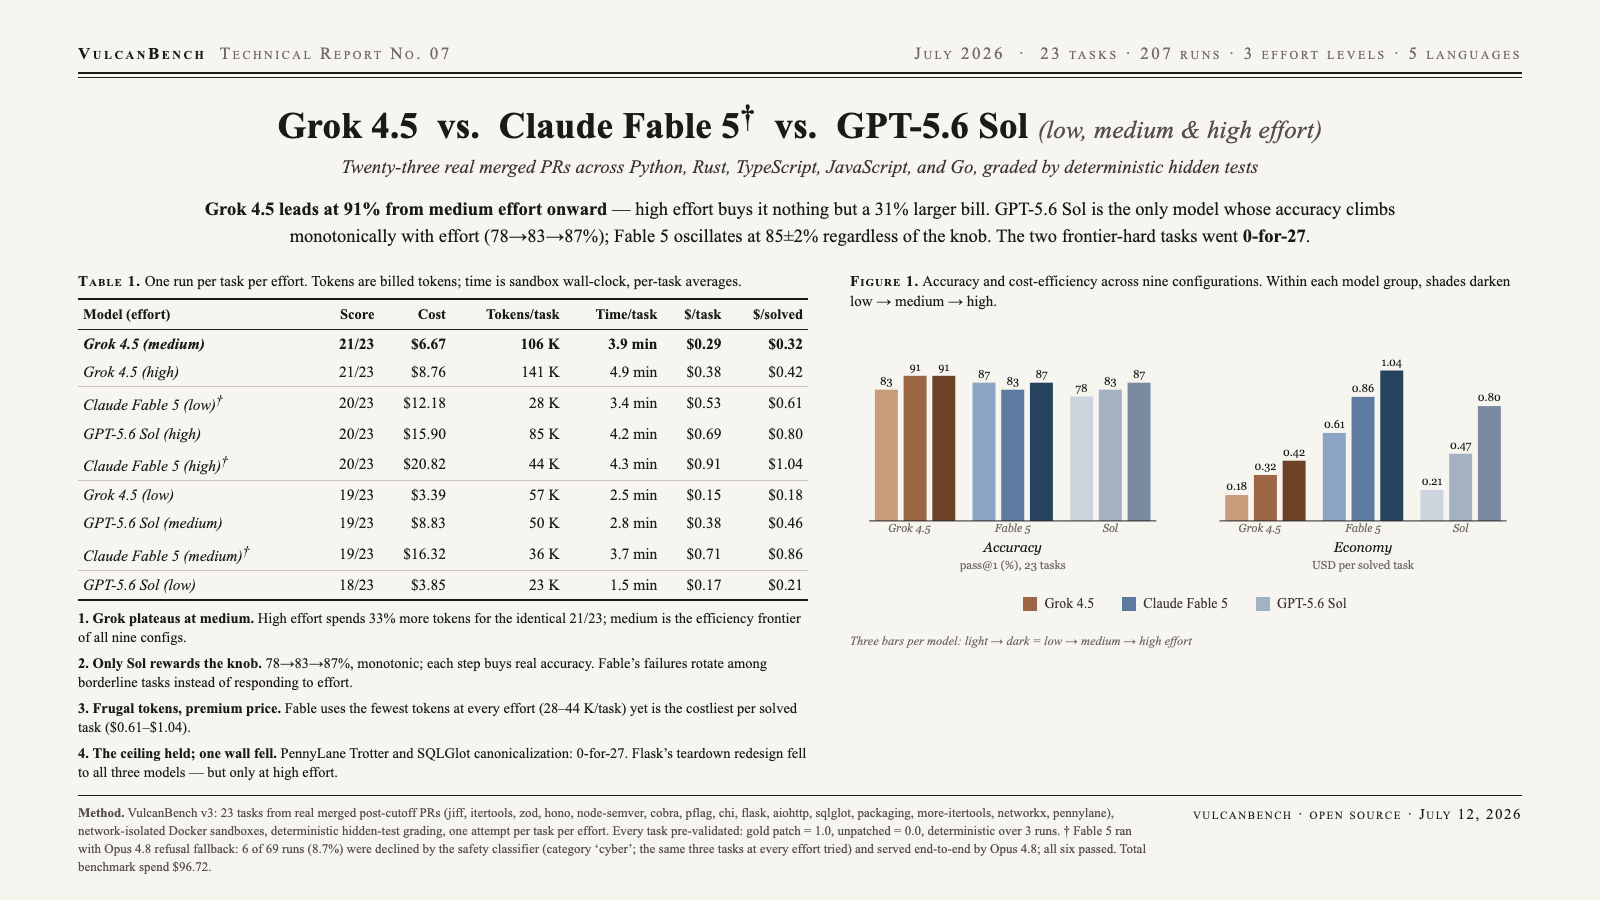
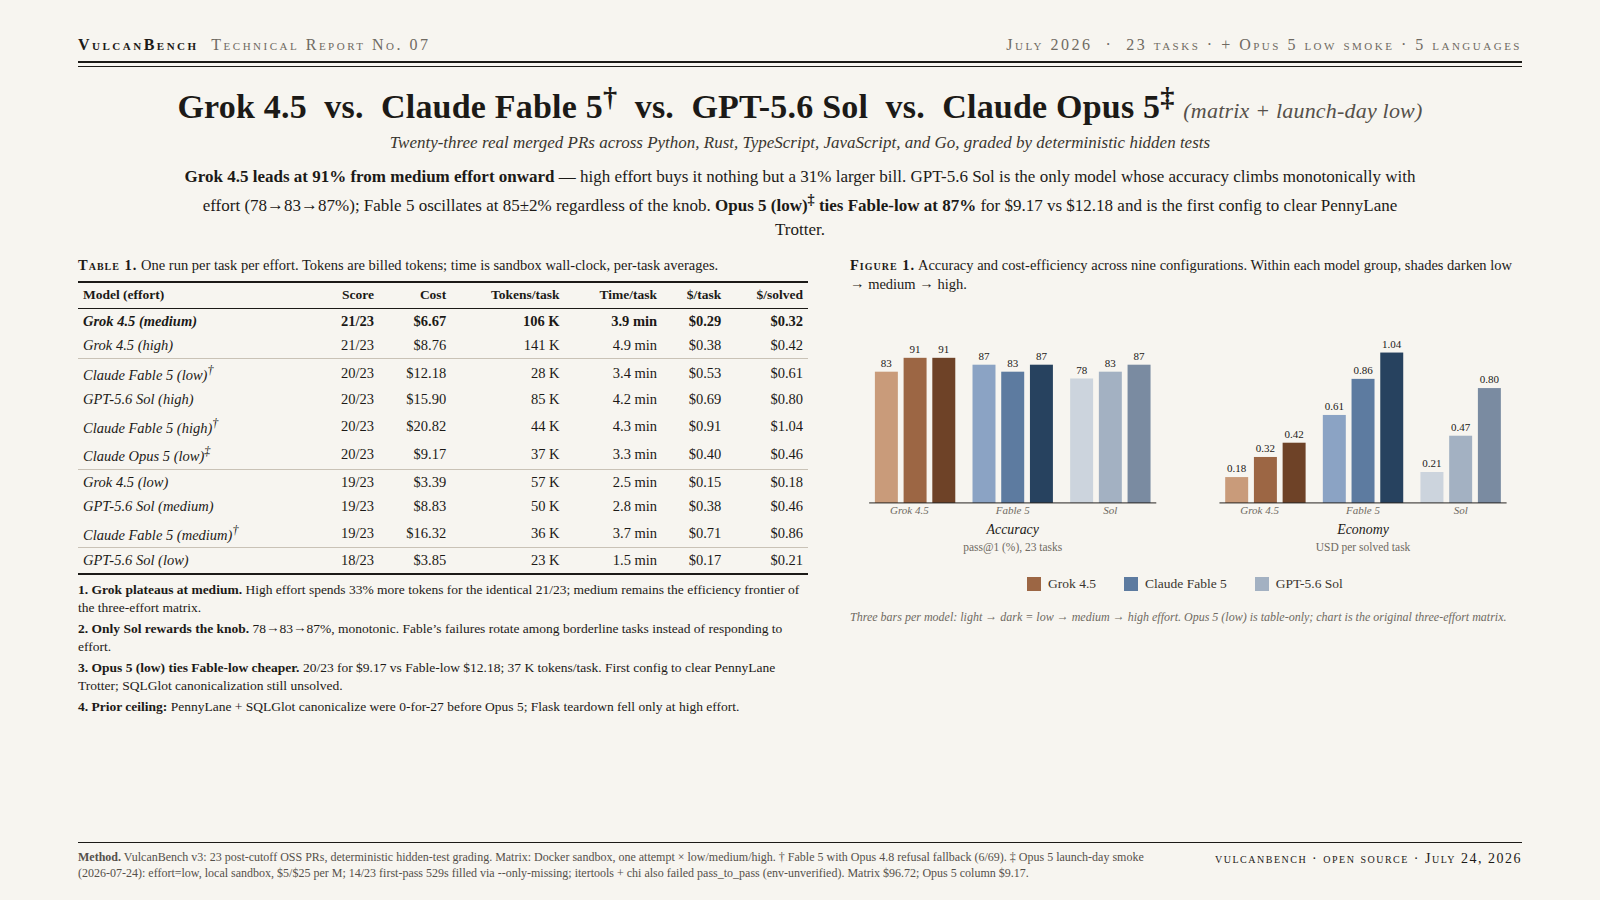
docs: regenerate v3 model-card PNG with Opus 5
Render the updated card.html to vulcanbench-v3-3way-card.png (1600x900)
and tighten layout so the extra Opus 5 row still fits the frame.

diff --git a/docs/results/v3-3way-2026-07/card.html b/docs/results/v3-3way-2026-07/card.html
@@ -3,41 +3,41 @@
 * { box-sizing: border-box; margin: 0; padding: 0; }
 html, body { width: 1600px; height: 900px; }
 body { font-family: "Times New Roman", Times, Georgia, serif; background: #f7f5f0; color: #1c1a17; }
-.page { width: 1600px; height: 900px; padding: 44px 78px 30px; position: relative; }
+.page { width: 1600px; height: 900px; padding: 36px 78px 26px; position: relative; }
 .masthead { display: flex; justify-content: space-between; align-items: baseline;
-  font-variant: small-caps; letter-spacing: 2.5px; font-size: 17px; color: #6f6a62; }
+  font-variant: small-caps; letter-spacing: 2.5px; font-size: 16px; color: #6f6a62; }
 .masthead b { color: #1c1a17; font-weight: 600; }
-.rule2 { border-top: 2.5px solid #1c1a17; margin-top: 8px; }
+.rule2 { border-top: 2.5px solid #1c1a17; margin-top: 7px; }
 .rule1 { border-top: 1px solid #1c1a17; margin-top: 2.5px; }
-h1 { text-align: center; font-size: 37px; font-weight: 600; margin-top: 20px; letter-spacing: 0.2px; }
-.eff { font-size: 25px; font-weight: 400; font-style: italic; color: #55504a; }
-.authors { text-align: center; font-style: italic; font-size: 19px; margin-top: 9px; color: #3a362f; }
-.abstract { width: 1240px; margin: 18px auto 0; font-size: 18.5px; line-height: 1.48; text-align: center; }
-.cols { display: grid; grid-template-columns: 730px 670px; gap: 42px; margin-top: 20px; }
-.tcap, .fcap { font-size: 15px; margin-bottom: 7px; line-height: 1.35; }
+h1 { text-align: center; font-size: 34px; font-weight: 600; margin-top: 14px; letter-spacing: 0.2px; }
+.eff { font-size: 22px; font-weight: 400; font-style: italic; color: #55504a; }
+.authors { text-align: center; font-style: italic; font-size: 17px; margin-top: 7px; color: #3a362f; }
+.abstract { width: 1240px; margin: 12px auto 0; font-size: 17px; line-height: 1.42; text-align: center; }
+.cols { display: grid; grid-template-columns: 730px 670px; gap: 42px; margin-top: 14px; }
+.tcap, .fcap { font-size: 14.5px; margin-bottom: 6px; line-height: 1.3; }
 .tcap b, .fcap b { font-variant: small-caps; letter-spacing: 1px; font-weight: 600; }
-table { width: 100%; border-collapse: collapse; font-size: 15.5px; }
+table { width: 100%; border-collapse: collapse; font-size: 14.5px; }
 thead th { border-top: 2px solid #1c1a17; border-bottom: 1px solid #1c1a17;
-  padding: 6px 5px; font-weight: 600; text-align: right; font-size: 14.5px; }
+  padding: 4.5px 5px; font-weight: 600; text-align: right; font-size: 13.5px; }
 thead th:first-child { text-align: left; }
-tbody td { padding: 5.1px 5px; text-align: right; font-variant-numeric: tabular-nums; }
+tbody td { padding: 3.8px 5px; text-align: right; font-variant-numeric: tabular-nums; }
 tbody td:first-child { text-align: left; }
 tbody tr:last-child td { border-bottom: 2px solid #1c1a17; }
 tbody tr.win td { font-weight: 700; }
 tbody tr.sep td { border-top: 1px solid #c9c2b6; }
 .model { font-style: italic; }
-.legend { display: flex; flex-wrap: wrap; gap: 22px 28px; justify-content: center; font-size: 14px; margin-top: 6px; color: #3a362f; }
+.legend { display: flex; flex-wrap: wrap; gap: 18px 28px; justify-content: center; font-size: 13.5px; margin-top: 4px; color: #3a362f; }
 .legend span { display: inline-flex; align-items: center; gap: 7px; }
-.legend .note { width: 100%; text-align: center; font-size: 12.5px; color: #6f6a62; font-style: italic; }
+.legend .note { width: 100%; text-align: center; font-size: 12px; color: #6f6a62; font-style: italic; }
 .sw { width: 14px; height: 14px; display: inline-block; }
-.findings { margin-top: 8px; font-size: 14.5px; line-height: 1.34; }
-.findings p { margin-top: 6px; }
+.findings { margin-top: 6px; font-size: 13.5px; line-height: 1.3; }
+.findings p { margin-top: 4px; }
 .findings .n { font-weight: 700; }
-.foot { position: absolute; left: 78px; right: 78px; bottom: 24px;
-  border-top: 1px solid #1c1a17; padding-top: 8px; font-size: 13px;
-  color: #55504a; line-height: 1.38; display: flex; justify-content: space-between; gap: 40px; }
+.foot { position: absolute; left: 78px; right: 78px; bottom: 18px;
+  border-top: 1px solid #1c1a17; padding-top: 7px; font-size: 12px;
+  color: #55504a; line-height: 1.32; display: flex; justify-content: space-between; gap: 40px; }
 .foot .brand { white-space: nowrap; text-align: right; font-variant: small-caps;
-  letter-spacing: 1.5px; color: #1c1a17; font-size: 15px; }
+  letter-spacing: 1.5px; color: #1c1a17; font-size: 14px; }
 </style></head><body>
 <div class="page">
   <div class="masthead"><span><b>VulcanBench</b> &nbsp;Technical Report No. 07</span><span>July 2026 &nbsp;&middot;&nbsp; 23 tasks &middot; + Opus 5 low smoke &middot; 5 languages</span></div>
@@ -73,7 +73,7 @@ tbody tr.sep td { border-top: 1px solid #c9c2b6; }
         <p><span class="n">1.</span> <b>Grok plateaus at medium.</b> High effort spends 33% more tokens for the identical 21/23; medium remains the efficiency frontier of the three-effort matrix.</p>
         <p><span class="n">2.</span> <b>Only Sol rewards the knob.</b> 78&rarr;83&rarr;87%, monotonic. Fable&rsquo;s failures rotate among borderline tasks instead of responding to effort.</p>
         <p><span class="n">3.</span> <b>Opus 5 (low) ties Fable-low cheaper.</b> 20/23 for $9.17 vs Fable-low $12.18; 37 K tokens/task. First config to clear PennyLane Trotter; SQLGlot canonicalization still unsolved.</p>
-        <p><span class="n">4.</span> <b>Prior ceiling:</b> PennyLane + SQLGlot canonicalize were 0-for-27 before Opus 5. Flask teardown fell to all three matrix models only at high effort.</p>
+        <p><span class="n">4.</span> <b>Prior ceiling:</b> PennyLane + SQLGlot canonicalize were 0-for-27 before Opus 5; Flask teardown fell only at high effort.</p>
       </div>
     </div>
     <div>
@@ -96,7 +96,7 @@ tbody tr.sep td { border-top: 1px solid #c9c2b6; }
   </div>
 
   <div class="foot">
-    <div><b>Method.</b> VulcanBench v3: 23 tasks from real merged post-cutoff PRs (jiff, itertools, zod, hono, node-semver, cobra, pflag, chi, flask, aiohttp, sqlglot, packaging, more-itertools, networkx, pennylane), deterministic hidden-test grading. Matrix: network-isolated Docker, one attempt per task &times; low/medium/high; pre-validated gold=1.0 / unpatched=0.0. &dagger;&nbsp;Fable 5 with Opus 4.8 refusal fallback (6/69 runs). &Dagger;&nbsp;Opus 5 launch-day smoke (2026-07-24): effort=low only, local sandbox, $5/$25 per M; 14/23 first-pass 529 overloads filled via --only-missing; itertools + chi also failed pass_to_pass (env-unverified). Matrix spend $96.72; Opus 5 column $9.17.</div>
+    <div><b>Method.</b> VulcanBench v3: 23 post-cutoff OSS PRs, deterministic hidden-test grading. Matrix: Docker sandbox, one attempt &times; low/medium/high. &dagger;&nbsp;Fable 5 with Opus 4.8 refusal fallback (6/69). &Dagger;&nbsp;Opus 5 launch-day smoke (2026-07-24): effort=low, local sandbox, $5/$25 per M; 14/23 first-pass 529s filled via --only-missing; itertools + chi also failed pass_to_pass (env-unverified). Matrix $96.72; Opus 5 column $9.17.</div>
     <div class="brand">vulcanbench &middot; open source &middot; July 24, 2026</div>
   </div>
 </div>
